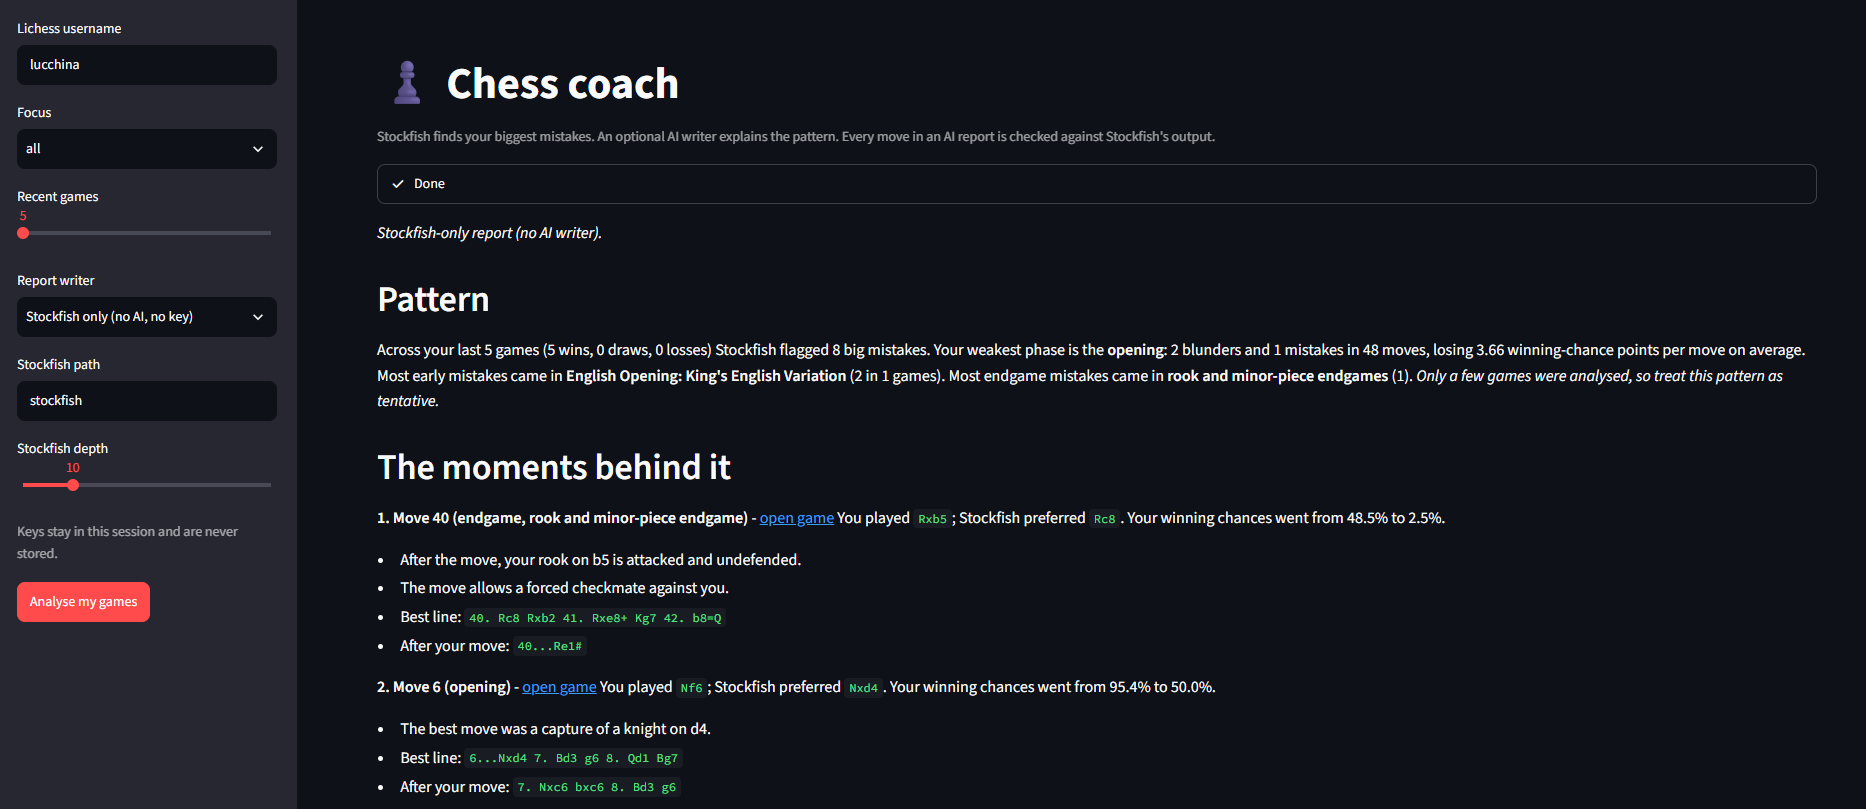
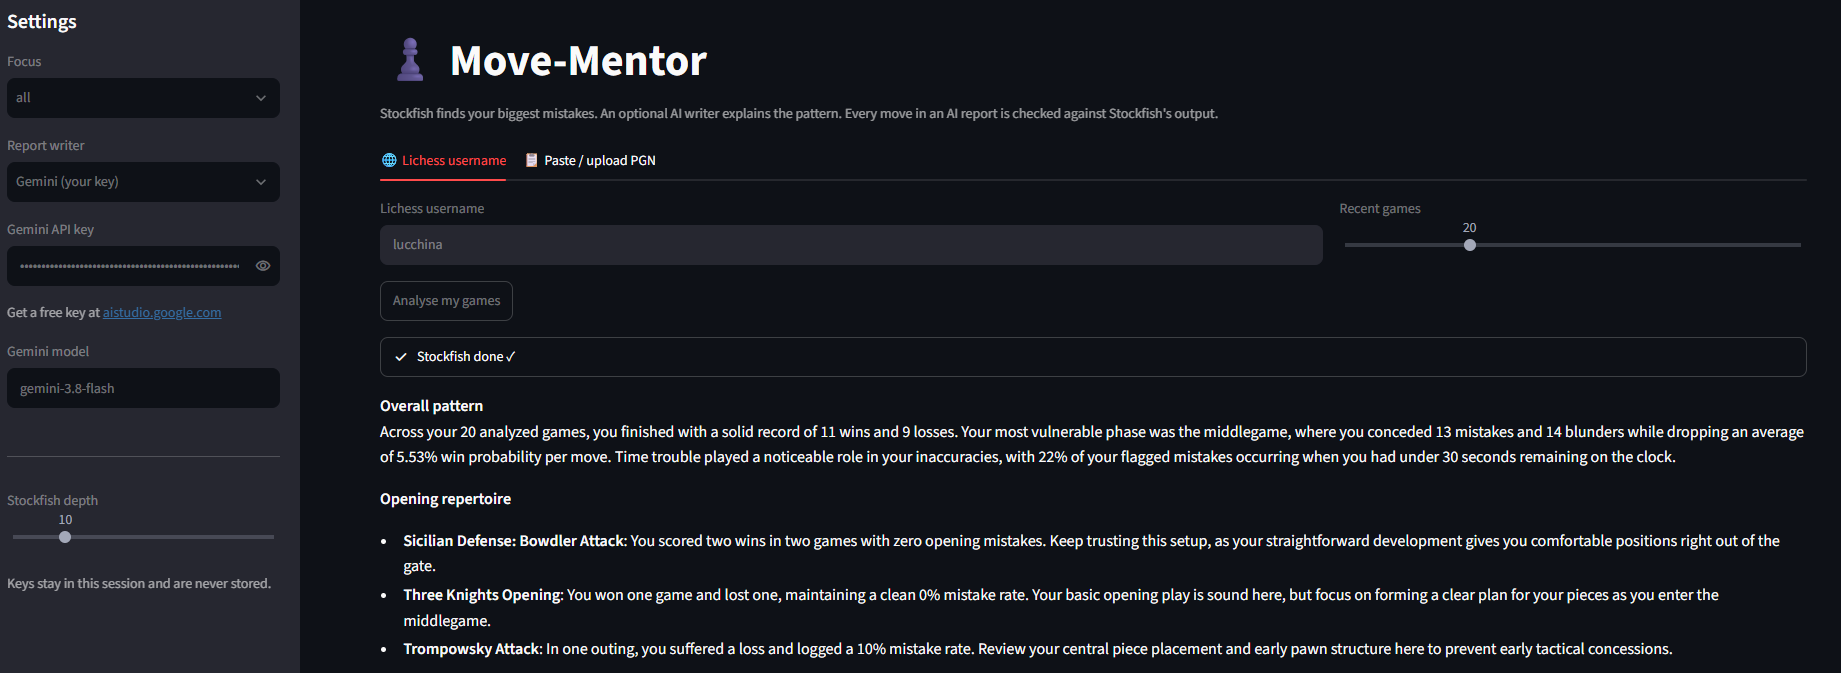
updated the readme adn updated the demo image

Changed region(s): [[0.0, 0.0, 0.9908, 1.0], [0.2167, 0.0624, 0.4025, 0.1248], [0.0, 0.6553, 0.1238, 0.6865]]

diff --git a/README.md b/README.md
@@ -11,8 +11,8 @@
 
 ## What it does
 
-- Downloads your recent games from Lichess and analyses every move with Stockfish.
-- Finds the moves that cost you the most winning chances, sorted by game phase (opening, middlegame, endgame), clock habits, opening, and endgame type.
+- Downloads your recent games from Lichess **or analyses a PGN you paste in** (Chess.com exports, Lichess exports, any standard PGN).
+- Analyses every move with Stockfish and finds the moves that cost you the most winning chances, sorted by game phase (opening, middlegame, endgame), clock habits, opening, and endgame type.
 - Profiles your **playstyle**: White vs Black record, opening repertoire with win rates and mistake rates, and phase tendency (do you reach endgames? do you convert them?).
 - Writes a coaching report with targeted advice — not just numbers. The writer is your choice: no AI at all, a local model, or Gemini.
 
@@ -44,7 +44,7 @@ Every report (including the Stockfish-only template) covers:
 
 The orchestration is plain Python, so a report costs **0 or 1 AI requests**. That is what makes it work on a free API quota or a small local model.
 
-**1. Download games.** The Lichess API returns your recent games with clocks and opening names.
+**1. Fetch games.** Either the Lichess API returns your recent games (with clocks and opening names), or you paste / upload a PGN directly in the app — Chess.com exports, Lichess exports, or any standard PGN file.
 
 **2. Stockfish analyses every position.** Evaluations are cached on disk, so a second run on the same games is nearly instant.
 
@@ -93,7 +93,7 @@ The variable only lasts for that terminal window, so start the app or scripts fr
 python run_pipeline.py YOUR_LICHESS_NAME                          # Stockfish-only report, no AI
 python run_pipeline.py YOUR_LICHESS_NAME --backend ollama         # local model (see below)
 python run_pipeline.py YOUR_LICHESS_NAME --backend gemini         # needs GEMINI_API_KEY
-streamlit run streamlit_app.py                                    # web app with a writer dropdown
+streamlit run streamlit_app.py                                    # web app — Lichess tab or PGN tab
 ```
 
 Useful flags: `--focus opening|endgame|all`, `--games 30`, `--depth 12`, `--retry` (one extra AI request if a move fails the check).
@@ -177,7 +177,7 @@ Uses real Stockfish and needs no network or API key. Covers blunder detection, p
 - Tactical tags are simple rules and can miss things or over-report. Positional mistakes get no named reason, only the evaluation change and the better move.
 - Evaluations at low depth can misjudge sharp positions. Only large drops are flagged for that reason.
 - Writing quality depends on the model. Small local models write plainer text than Gemini.
-- Only public, standard-chess Lichess games are analysed.
+- Only public, standard-chess Lichess games are supported via the username tab. The PGN tab accepts any standard-chess game regardless of source.
 - The playstyle profile is based on the games analysed; 20+ games gives a more reliable picture.
 
 ## Troubleshooting
@@ -219,7 +219,6 @@ chess_coach/
 - Progress tracking: compare the last 30 games with the previous 30.
 - Endgame tablebase lookups for simple endings.
 - A "how natural was this move" signal from a model trained on human games.
-- Chess.com support alongside Lichess.
 
 ## Licence and credits
 
